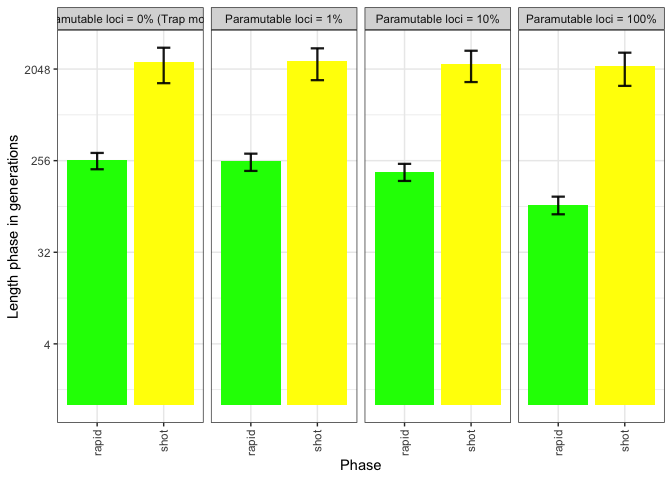
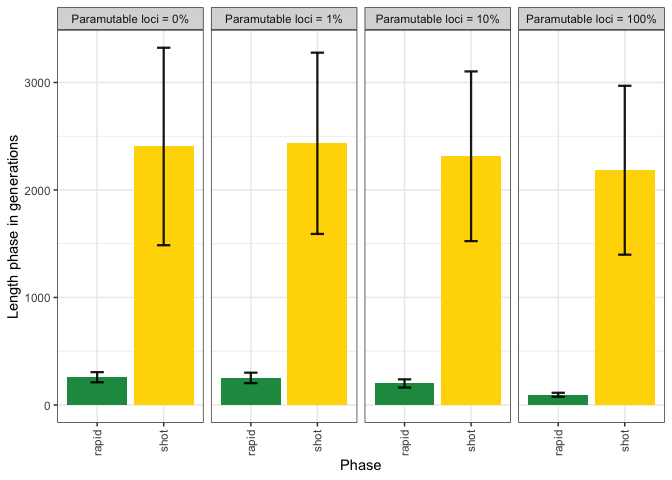
Figures update

diff --git a/Simulation/2022_08_24_Simulation_1_2_Phases.md b/Simulation/2022_08_24_Simulation_1_2_Phases.md
@@ -100,11 +100,11 @@ while (x<nrow(df1)) {
 df2<-select (df2,-c(28))
 
 df_count <- df2 %>%
-  count(sampleid, phase)
+  dplyr::count(sampleid, phase)
 
 df_summary <- df2 %>% 
-  group_by(sampleid, phase) %>%
-  summarize(av_fwcli = mean(fwcli), sd_fwcli = sd(fwcli),
+  dplyr::group_by(sampleid, phase) %>%
+  dplyr::summarize(av_fwcli = mean(fwcli), sd_fwcli = sd(fwcli),
             av_cli = mean(avcli), sd_cli = sd(avcli), cv_cli_percent = sd(avcli)/mean(avcli),
             av_tes = mean(avtes), sd_tes = sd(avtes), cv_tes_percent = sd(avtes)/mean(avtes),
             av_par = mean(avpar), sd_par = sd(avpar),
@@ -128,7 +128,7 @@ g <- ggplot(df_summary, aes(x=phase, y=av_fwcli, fill = phase)) +
   ylab("Fraction of individuals with a cluster insertion")+
   xlab("Phase")+
   scale_y_continuous(labels = scales::percent, expand = c(0, 0.01))+
-  scale_fill_manual(values = c("yellow", "red"))+
+  scale_fill_manual(values = c("#ffd700", "#d73027"))+
   theme(legend.position="none", axis.text.x = element_text(angle = 90, vjust = 0.5, hjust=1))+
   facet_wrap(~sampleid, ncol=4, labeller = labeller(sampleid = 
                                               c("p0" = "Paramutable loci = 0% (Trap model)",
@@ -148,7 +148,7 @@ g_2 <- ggplot(df_summary, aes(x=phase, y=av_cli, fill = phase)) +
   ylab("Number of cluster insertions per individual")+
   xlab("Phase")+
   scale_y_continuous(expand = c(0, 0.3))+
-  scale_fill_manual(values = c("yellow", "red"))+
+  scale_fill_manual(values = c("#ffd700", "#d73027"))+
   theme(legend.position="none", axis.text.x = element_text(angle = 90, vjust = 0.5, hjust=1))+
   facet_wrap(~sampleid, ncol=4, labeller = labeller(sampleid = 
                                               c("p0" = "Paramutable loci = 0%",
@@ -181,7 +181,7 @@ g_3 <- ggplot(df_summary, aes(x=phase, y=av_tes, fill = phase)) +
   ylab("Number of TE insertions per individual")+
   xlab("Phase")+
   scale_y_continuous(expand = expansion(mult = c(0, 0.01)))+
-  scale_fill_manual(values = c("yellow", "red"))+
+  scale_fill_manual(values = c("#ffd700", "#d73027"))+
   theme(legend.position="none", axis.text.x = element_text(angle = 90, vjust = 0.5, hjust=1))+
   facet_wrap(~sampleid, ncol=4, labeller = labeller(sampleid = 
                                                       c("p0" = "Paramutable loci = 0%",
@@ -214,7 +214,7 @@ g_4 <- ggplot(df_summary, aes(x=phase, y=av_par, fill = phase)) +
   ylab("Number of TE insertions in paramutable loci")+
   xlab("Phase")+
   scale_y_continuous(expand = expansion(mult = c(0, 0.1)))+
-  scale_fill_manual(values = c("yellow", "red"))+
+  scale_fill_manual(values = c("#ffd700", "#d73027"))+
   theme(legend.position="none", axis.text.x = element_text(angle = 90, vjust = 0.5, hjust=1))+
   facet_wrap(~sampleid, ncol=4, labeller = labeller(sampleid = 
                                                       c("p0" = "Paramutable loci = 0%",
@@ -231,10 +231,10 @@ plot(g_4)
 g_5 <- ggplot(df_summary, aes(x=phase, y=av_fwpar_yespi, fill = phase)) + 
   geom_bar(stat = "identity") +
   geom_errorbar( aes(x=phase, ymin=av_fwpar_yespi-sd_fwpar_yespi, ymax=av_fwpar_yespi+sd_fwpar_yespi), width=0.2, colour="black", alpha=0.9, size=0.8)+
-  ylab("Fraction of individuals with an insertion in a paramutable site")+
+  ylab("Fraction of individuals with an insertion in a paramutable locus")+
   xlab("Phase")+
   scale_y_continuous(labels = scales::percent, expand = c(0, 0.01))+
-  scale_fill_manual(values = c("yellow", "red"))+
+  scale_fill_manual(values = c("#ffd700", "#d73027"))+
   theme(legend.position="none", axis.text.x = element_text(angle = 90, vjust = 0.5, hjust=1))+
   facet_wrap(~sampleid, ncol=4, labeller = labeller(sampleid = 
                                                       c("p0" = "Paramutable loci = 0% (Trap model)",
@@ -261,16 +261,17 @@ df_phases$length_previous_phase[8]=df_phases$length_previous_phase[8]-df_phases$
 names(df_phases) <- c("sampleid","phase", "length_phase", "sd_gen_phases")
 
 
+
 g_6 <- ggplot(df_phases, aes(x=phase, y=length_phase, fill = phase)) + 
   geom_bar(stat = "identity") +
   geom_errorbar( aes(x=phase, ymin=length_phase-sd_gen_phases, ymax=length_phase+sd_gen_phases), width=0.2, colour="black", alpha=0.9, size=0.8)+
   ylab("Length phase in generations")+
   xlab("Phase")+
-  scale_y_continuous(trans = "log2")+
-  scale_fill_manual(values = c("green", "yellow"))+
+  scale_y_continuous()+
+  scale_fill_manual(values = c("#1a9850", "#ffd700"))+
   theme(legend.position="none", axis.text.x = element_text(angle = 90, vjust = 0.5, hjust=1))+
   facet_wrap(~sampleid, ncol=4, labeller = labeller(sampleid = 
-                                                      c("p0" = "Paramutable loci = 0% (Trap model)",
+                                                      c("p0" = "Paramutable loci = 0%",
                                                         "p1" = "Paramutable loci = 1%",
                                                         "p10" = "Paramutable loci = 10%",
                                                         "p100" = "Paramutable loci = 100%")))

diff --git a/Simulation/2022_11_21_Simulation_9_Paramutations_on_real_data.md b/Simulation/2022_11_21_Simulation_9_Paramutations_on_real_data.md
@@ -42,7 +42,7 @@ Setting the environment
 ``` r
 library(tidyverse)
 library(ggplot2)
-library(patchwork)
+library(ggpubr)
 library(dplyr)
 library(plyr)
 theme_set(theme_bw())
@@ -55,7 +55,7 @@ p<-c("grey","#1a9850","#ffd700","#d73027")
 
 setwd("/Users/ascarpa/Paramutations_TEs/Simulation/Raw")
 
-df <- read.table("/Users/ascarpa/Paramutations_TEs/Simulation/Raw/2022_11_21_Simulation_9_Paramutations_on_real_data", fill = TRUE, sep = "\t")
+df <- read.table("2022_11_21_Simulation_9_Paramutations_on_real_data", fill = TRUE, sep = "\t")
 names(df) <- c("rep", "gen", "popstat", "fmale", "spacer_1", "fwte", "avw", "min_w", "avtes", "avpopfreq",
               "fixed","spacer_2", "phase", "fwpirna", "spacer_3", "fwcli", "avcli", "fixcli", "spacer_4",
               "fwpar_yespi","fwpar_nopi", "avpar","fixpar","spacer_5","piori","orifreq","spacer 6", "sampleid")
@@ -113,7 +113,7 @@ g_2_trap <- ggplot()+
   ylim(0,250)+
   xlim(0,5000)+
   annotate("rect",ymin=min_df_2_t_haplo, ymax=max_df_2_t_haplo, xmin=0, xmax=5000, fill="darkgrey",alpha=.3)+
-  ggtitle("Trap model")
+  ggtitle("Trap model: 0% paramutable loci")
 
 plot(g_2_trap)
 ```
@@ -130,7 +130,7 @@ g_2_para <- ggplot()+
   ylim(0,250)+
   xlim(0,5000)+
   annotate("rect",ymin=min_df_2_10p_haplo, ymax=max_df_2_10p_haplo, xmin=0, xmax=5000, fill="darkgrey",alpha=.3)+
-  ggtitle("10% paramutable loci")
+  ggtitle("Extend trap model: 10% paramutable loci")
 
 plot(g_2_para)
 ```
@@ -144,6 +144,7 @@ names(t)<-c("chr","pos","support","family","popfreq","order")
 flam<-c("gypsy","ZAM","Idefix","gypsy5","gtwin","blood","gypsy6","412","HMS-Beagle2","Stalker",
         "mdg1","Stalker2","Quasimodo","springer","Stalker4","mdg3","gypsy2","gypsy4","Transpac","gypsy3","Tirant","gypsy10","Tabor")
 
+
 s<- ddply(.data=t, 
           .(family),
           summarize, 
@@ -151,7 +152,6 @@ s<- ddply(.data=t,
           sum=sum(popfreq)) 
 s$avpopfreq=s$sum/s$count
 so<-s[order(s$avpopfreq),]
-
 
 
 so$family<-factor(so$family,levels=s[order(s$avpopfreq),]$family)
@@ -170,6 +170,8 @@ g_tes_trap<-ggplot(data=te_germ, aes(x=family, y=sum,fill=avpopfreq)) +ylab("ins
   theme(legend.position="none",panel.grid.major.x=element_blank() , axis.text.x = element_text(angle = 90, size=5,hjust=1),axis.title.x=element_blank())+
   annotate("rect",ymin=min_df_2_t_haplo, ymax=max_df_2_t_haplo, xmin=1, xmax=nrow(te_germ), fill="darkgrey",alpha=.3)
   
+  
+
 plot(g_tes_trap)
 ```
 
@@ -181,18 +183,22 @@ g_tes_para<-ggplot(data=te_germ, aes(x=family, y=sum,fill=avpopfreq)) +ylab("ins
   theme(legend.position="none",panel.grid.major.x=element_blank() , axis.text.x = element_text(angle = 90, size=5,hjust=1),axis.title.x=element_blank())+
   annotate("rect",ymin=min_df_2_10p_haplo, ymax=max_df_2_10p_haplo, xmin=1, xmax=nrow(te_germ), fill="darkgrey",alpha=.3)
   
+
 plot(g_tes_para)
 ```
 
 ![](2022_11_21_Simulation_9_Paramutations_on_real_data_files/figure-gfm/unnamed-chunk-3-5.png)<!-- -->
 
 ``` r
-(g_2_trap + g_2_para) / (g_tes_trap + g_tes_para)
+ggarrange(g_2_trap, g_2_para, g_tes_trap, g_tes_para,
+          ncol = 2, nrow = 2, align = ("v"),
+          labels = c("A", "", "B", ""), heights = c(2,2), widths = c(2,2)
+)
 ```
 
 ![](2022_11_21_Simulation_9_Paramutations_on_real_data_files/figure-gfm/unnamed-chunk-3-6.png)<!-- -->
 
 ## Conclusions
 
-The extended trap model, due to the inclusion of paramutations better
+The extended trap model, due to the inclusion of paramutations, better
 fits the real data.
